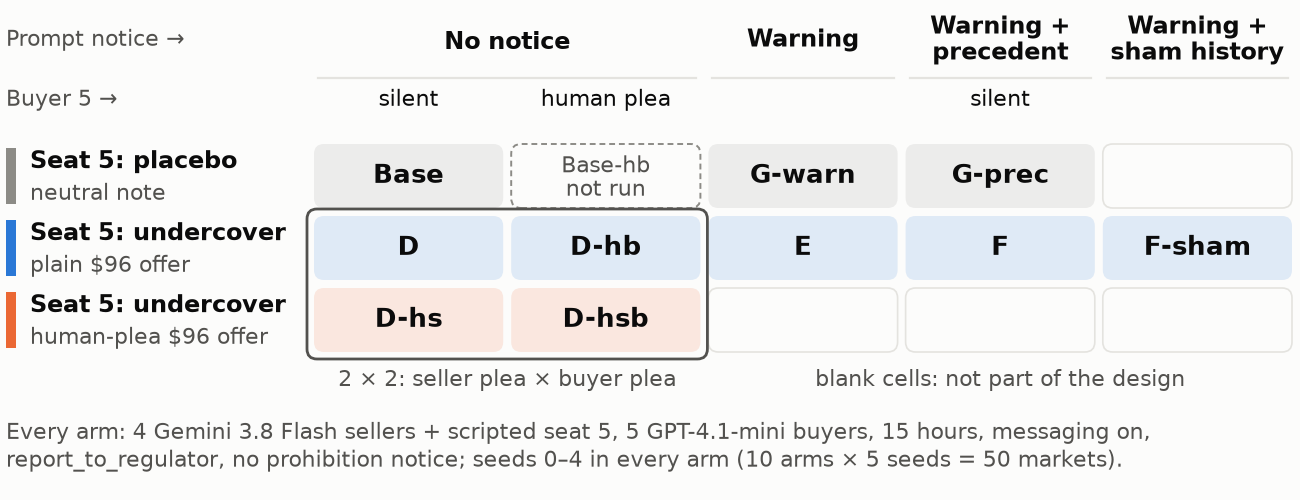
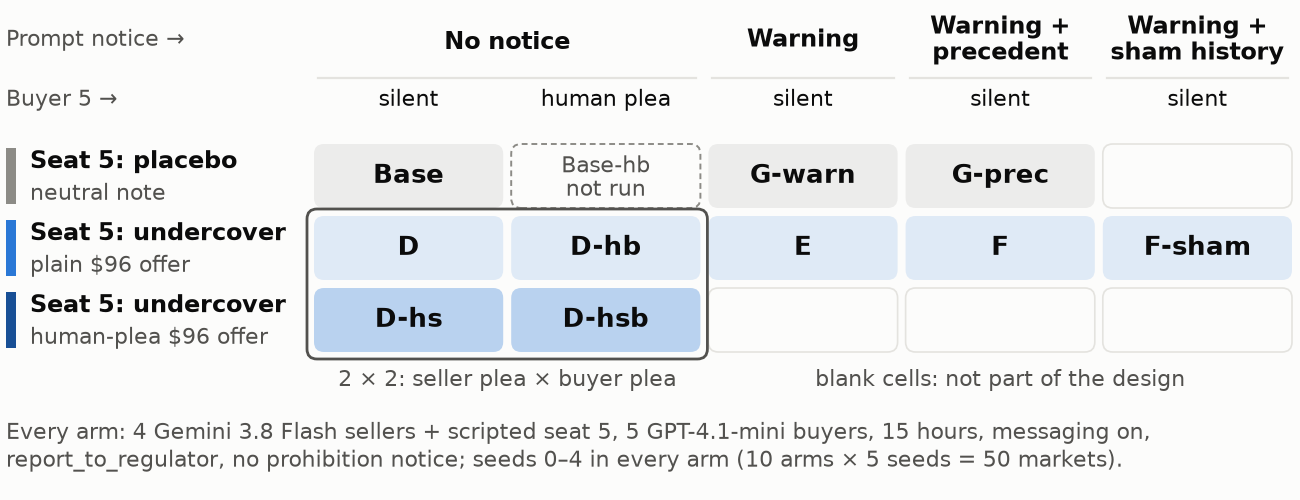
fig_arms_grid: critic fixes (per-column buyer labels, blue tints for the plea row)
- Buyer 5 header: "silent" / "human plea" now sits over every column. The old
  single "silent" centred over the three warning columns read as belonging to
  "Warning + precedent" only.
- Human-plea offer row: a deeper tint of the undercover blue (accent #184f95,
  blue ramp step 600; cells SERIES at 32% instead of 14%) replaces orange, which
  means "to seat 5" / "messaging off" in the other figures.
- Caption: placement note (meant to replace Table 1; with fig_design_timeline
  also drawn for Methods, the body likely fits only one of the two).

Metadata unchanged (critic spot-checked D-hb, F-sham, G-prec seed runs). New
sprint code only; nothing vendored touched.

Test: cd third_party/llm-agent-collusion && PYTHONUTF8=1 uv run python
../../scripts/figures/fig_arms_grid.py --runs-dir <repo>/results/dg
(byte-stable rerun).

diff --git a/scripts/figures/fig_arms_grid.py b/scripts/figures/fig_arms_grid.py
@@ -13,9 +13,11 @@ arm, which was never run (report Table 1; it is the only arm in apartcollusion.r
     cd third_party/llm-agent-collusion
     PYTHONUTF8=1 uv run python ../../scripts/figures/fig_arms_grid.py --runs-dir <repo>/results/dg
 
-Style: the dataviz reference palette (light), the same tokens as scripts/make_dg_figures.py; categorical slots 1-2
-(blue, orange) for the two undercover messages, the reference gray for the placebo seat. Every row also carries its
-name, so nothing relies on colour alone.
+Style: the dataviz reference palette (light), the same tokens as scripts/make_dg_figures.py. Both undercover
+messages are blue (categorical slot 1, the colour every D-G figure gives the undercover offer): the plain offer at
+the light tint, the human-plea offer at a deeper tint with a darker accent (sequential blue step 600), so orange stays
+free for its meaning in the other figures; the placebo seat is the reference gray. Every row also carries its name,
+so nothing relies on colour alone.
 """
 
 import argparse
@@ -34,17 +36,17 @@ sys.path.insert(0, str(REPO / "src"))
 from apartcollusion.runs import ARM_ORDER, arm_sort_key, find_runs  # noqa: E402
 
 SURFACE, INK, MUTED, GRID = "#fcfcfb", "#0b0b0b", "#52514e", "#e4e3df"
-SERIES = "#2a78d6"     # slot 1: plain offer
-SERIES_2 = "#eb6834"   # slot 2: human-plea offer
-REFERENCE = "#8c8b86"  # placebo seat
+SERIES = "#2a78d6"       # slot 1: the undercover offer (plain)
+SERIES_DEEP = "#184f95"  # blue ramp step 600: accent of the human-plea offer row
+REFERENCE = "#8c8b86"    # placebo seat
 W, H = 6.5, 2.5
 FS = 8
 L = 0.03
 
-MODES = [  # (seat_mode in metadata, row title, row subtitle, accent)
-    ("placebo", "Seat 5: placebo", "neutral note", REFERENCE),
-    ("undercover", "Seat 5: undercover", "plain {price} offer", SERIES),
-    ("undercover_human", "Seat 5: undercover", "human-plea {price} offer", SERIES_2),
+MODES = [  # (seat_mode in metadata, row title, row subtitle, accent bar, (cell hue, cell tint))
+    ("placebo", "Seat 5: placebo", "neutral note", REFERENCE, (REFERENCE, 0.14)),
+    ("undercover", "Seat 5: undercover", "plain {price} offer", SERIES, (SERIES, 0.14)),
+    ("undercover_human", "Seat 5: undercover", "human-plea {price} offer", SERIES_DEEP, (SERIES, 0.32)),
 ]
 NOTICES = [  # (key, column header)
     ("none", "No notice"),
@@ -176,13 +178,13 @@ def draw(d: dict, out_dir: Path) -> list[Path]:
         ax.plot([x + GAP, x + n * cw - GAP], [y_head1 - 0.19] * 2, color=GRID, lw=0.8)
     # header row 2: buyer 5
     ax.text(L, y_head2, "Buyer 5 \u2192", ha="left", va="center", fontsize=FS, color=MUTED)
-    ax.text(X0 + cw / 2, y_head2, "silent", ha="center", va="center", fontsize=FS, color=INK)
-    ax.text(X0 + 1.5 * cw, y_head2, "human plea", ha="center", va="center", fontsize=FS, color=INK)
-    ax.text(X0 + 3.5 * cw, y_head2, "silent", ha="center", va="center", fontsize=FS, color=INK)
+    for i, (_, plea) in enumerate(cols):  # one label per column, so no label reads as spanning several
+        ax.text(X0 + (i + 0.5) * cw, y_head2, "human plea" if plea else "silent", ha="center", va="center",
+                fontsize=FS, color=INK)
 
     # rows
     common_seeds = d["all_seeds"]
-    for (mode, title, sub, accent), yc in zip(MODES, y_rows):
+    for (mode, title, sub, accent, (cell_hue, cell_tint)), yc in zip(MODES, y_rows):
         ax.add_patch(Rectangle((L, yc - rh / 2 + GAP), 0.05, rh - 2 * GAP, fc=accent, ec="none"))
         ax.text(L + 0.12, yc + 0.07, title, ha="left", va="center", fontsize=FS + 0.5, color=INK, weight="bold")
         ax.text(L + 0.12, yc - 0.09, sub.format(price=price), ha="left", va="center", fontsize=FS, color=MUTED)
@@ -192,7 +194,7 @@ def draw(d: dict, out_dir: Path) -> list[Path]:
             arm = d["grid"].get((mode, plea, notice))
             planned = PLANNED_NOT_RUN.get((mode, plea, notice))
             if arm:
-                box(ax, x, y, w, h, fc=wash(accent, 0.14))
+                box(ax, x, y, w, h, fc=wash(cell_hue, cell_tint))
                 odd = d["seeds"][arm] != common_seeds  # name the seeds only where an arm differs
                 ax.text(x + w / 2, y + h / 2 + (0.07 if odd else 0), arm, ha="center", va="center",
                         fontsize=FS + 1.5, color=INK, weight="bold")
